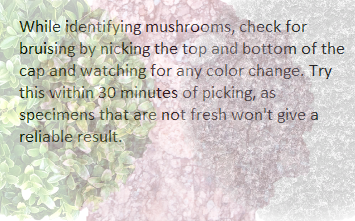
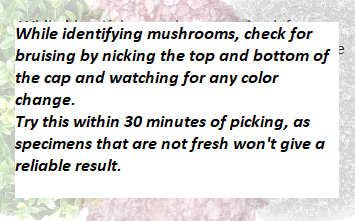
more help guides added

diff --git a/data/questions.js b/data/questions.js
@@ -126,6 +126,7 @@ var questions = [
     },
     {
       question:  "What is the stalk color above the ring?",
+      help: "/img/help/guide.png",
       options: [
         {option: "Buff", image: "/img/stalkColorAbove/b.jpg", value: "b"},
         {option: "Red", image: "/img/stalkColorAbove/e.jpg", value: "e"},
@@ -139,6 +140,7 @@ var questions = [
     },
     {
       question: "What is the stalk color below the ring?",
+      help: "/img/help/guide.png",
       options: [
         {option: "Buff", image: "/img/stalkColorBelow/b.jpg", value: "b"},
         {option: "Red", image: "/img/stalkColorBelow/e.jpg", value: "e"},
@@ -161,6 +163,7 @@ var questions = [
     },
     {
       question: "What is the stalk surface like below the ring?",
+      help: "/img/help/stalkSurf.png",
       options: [
         {option: "Fibrous", image: "/img/stalkSurfaceBelow/f.jpg", value: "f"},
         {option: "Silky", image: "/img/stalkSurfaceBelow/k.jpg", value: "k"},

diff --git a/public/js/index.js b/public/js/index.js
@@ -46,6 +46,15 @@ $(function() {
        case 6:
        button();
        break;
+       case 12:
+       button();
+       break;
+       case 13:
+       button();
+       break;
+       case 15:
+       button();
+       break;
     }
     // <button class='btn btn-primary' id='help' style='float: left'>Help</button>
     // button type="button" class="btn btn-secondary" data-container="body" data-toggle="popover" data-placement="top"
